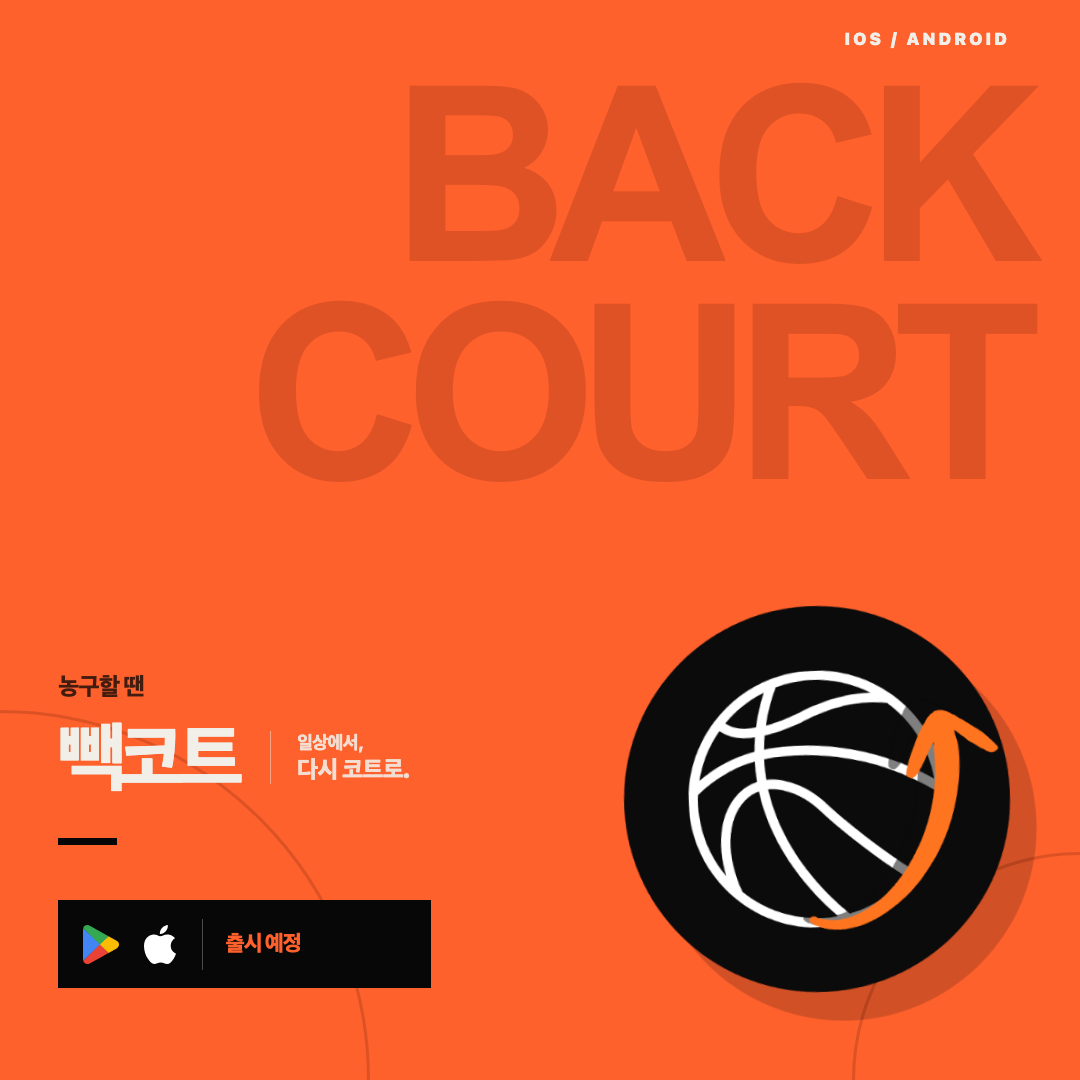
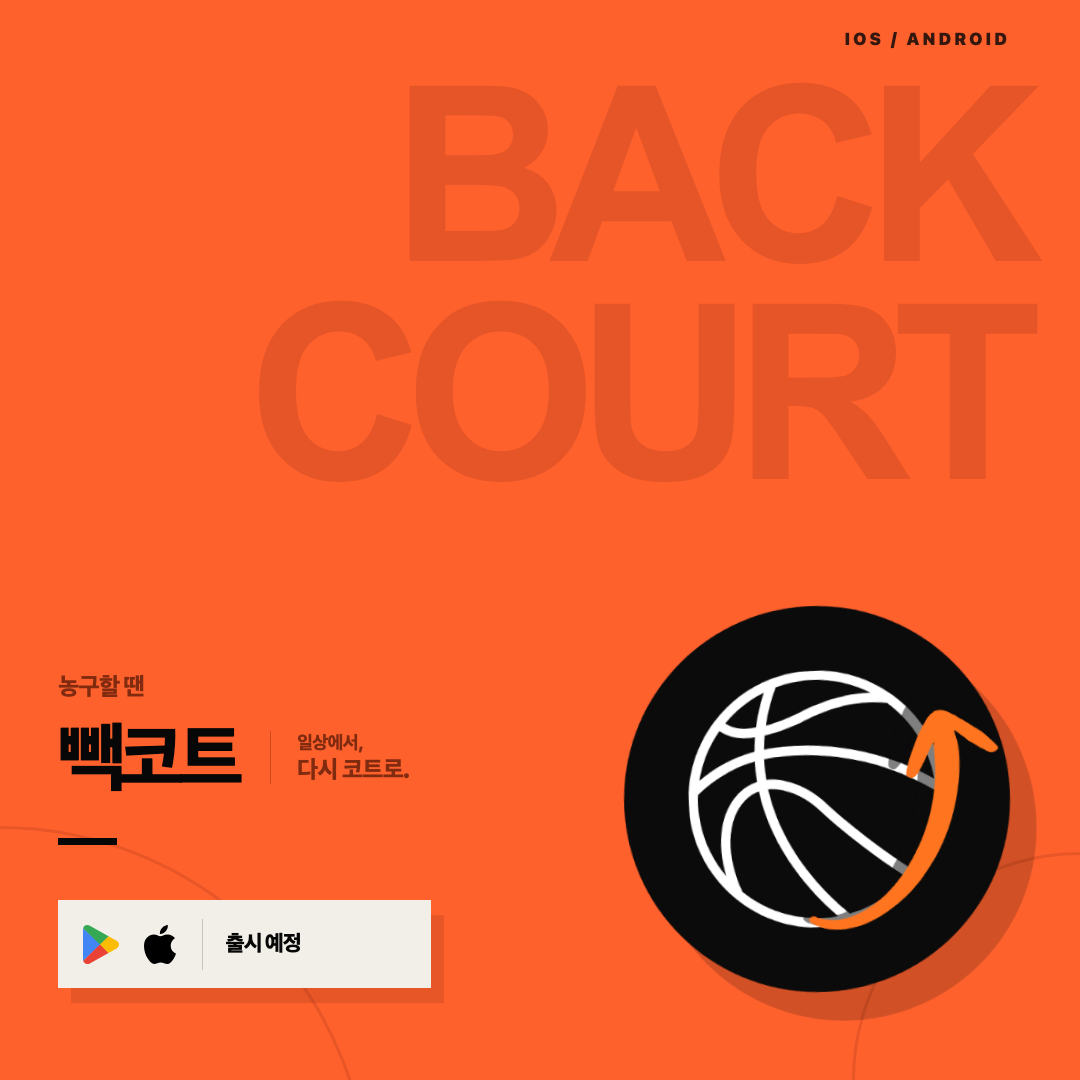
Rebalance promo poster visual hierarchy

diff --git a/Backcourt-Social/styles.css b/Backcourt-Social/styles.css
@@ -23,24 +23,24 @@ a { color: inherit; text-decoration: none; }
 .creative-meta span { color: #8c8c8c; font-size: 12px; font-weight: 800; }
 .poster-shell { width: min(100%,1080px); aspect-ratio: 1; overflow: hidden; container-type: inline-size; background: var(--orange); border: 1px solid #292929; box-shadow: 0 20px 50px rgba(0,0,0,.28); }
 .poster { position: relative; width: 100%; height: 100%; overflow: hidden; color: var(--ink); background: var(--orange); letter-spacing: -.045em; }
-.back-type { position: absolute; z-index: 0; top: 6.3cqw; right: 5.2cqw; width: 100%; color: rgba(117,38,14,.24); font-family: Arial, "Apple SD Gothic Neo", sans-serif; font-size: 22.6cqw; font-weight: 950; line-height: .895; letter-spacing: -.075em; text-align: right; white-space: nowrap; }
+.back-type { position: absolute; z-index: 0; top: 6.3cqw; right: 5.2cqw; width: 100%; color: rgba(117,38,14,.19); font-family: Arial, "Apple SD Gothic Neo", sans-serif; font-size: 22.6cqw; font-weight: 950; line-height: .895; letter-spacing: -.075em; text-align: right; white-space: nowrap; }
 .back-type span { display: block; }
-.platform { position: absolute; z-index: 2; top: 2.7cqw; right: 6.5cqw; color: var(--paper); font-size: 1.58cqw; font-weight: 950; letter-spacing: .18em; }
+.platform { position: absolute; z-index: 2; top: 2.7cqw; right: 6.5cqw; color: rgba(7,7,7,.82); font-size: 1.58cqw; font-weight: 950; letter-spacing: .18em; }
 .copy { position: absolute; z-index: 3; left: 5.4cqw; top: 62.2cqw; }
-.copy .kicker { margin: 0 0 1.5cqw; color: rgba(7,7,7,.76); font-size: 2.25cqw; font-weight: 900; }
+.copy .kicker { margin: 0 0 1.5cqw; color: rgba(117,38,14,.92); font-size: 2.25cqw; font-weight: 900; }
 .title-row { display: flex; align-items: center; gap: 3cqw; }
-.copy h2 { margin: 0; color: var(--paper); font-size: 7.05cqw; line-height: 1; font-weight: 950; letter-spacing: -.08em; }
-.title-slogan { margin: .25cqw 0 0; padding-left: 2.4cqw; color: rgba(241,239,232,.88); border-left: .18cqw solid rgba(241,239,232,.48); font-size: 1.7cqw; line-height: 1.25; font-weight: 800; letter-spacing: -.035em; }
+.copy h2 { margin: 0; color: var(--ink); font-size: 7.05cqw; line-height: 1; font-weight: 950; letter-spacing: -.08em; }
+.title-slogan { margin: .25cqw 0 0; padding-left: 2.4cqw; color: rgba(117,38,14,.92); border-left: .18cqw solid rgba(117,38,14,.38); font-size: 1.7cqw; line-height: 1.25; font-weight: 800; letter-spacing: -.035em; }
 .title-slogan strong { font-size: 2.25cqw; font-weight: 950; }
 .copy > i { width: 5.4cqw; height: .65cqw; margin: 4.1cqw 0 5.1cqw; display: block; background: var(--ink); }
-.launch { width: 34.5cqw; height: 8.15cqw; display: flex; align-items: center; color: var(--orange); background: var(--ink); }
-.store-marks { height: 4.7cqw; padding: 0 2.1cqw; display: flex; align-items: center; gap: 1.8cqw; border-right: .18cqw solid rgba(255,255,255,.28); }
+.launch { width: 34.5cqw; height: 8.15cqw; display: flex; align-items: center; color: var(--ink); background: var(--paper); box-shadow: 1.2cqw 1.4cqw 0 rgba(117,38,14,.18); }
+.store-marks { height: 4.7cqw; padding: 0 2.1cqw; display: flex; align-items: center; gap: 1.8cqw; border-right: .18cqw solid rgba(7,7,7,.18); }
 .store-marks img { width: 3.65cqw; height: 3.65cqw; object-fit: contain; }
-.store-marks .apple-logo { filter: invert(1); }
+.store-marks .apple-logo { filter: none; }
 .launch > strong { margin-left: 2.1cqw; font-size: 2.05cqw; font-weight: 950; letter-spacing: -.055em; white-space: nowrap; }
 .hero-icon { position: absolute; z-index: 2; left: 57.8cqw; top: 56.1cqw; width: 35.75cqw; height: 35.75cqw; object-fit: contain; transform: rotate(-3deg); filter: drop-shadow(2.4cqw 2.8cqw 0 rgba(0,0,0,.18)); }
-.court-lines i, .court-lines b { position: absolute; z-index: 1; display: block; border: .28cqw solid rgba(117,38,14,.25); border-radius: 50%; }
-.court-lines i { left: -34.25cqw; bottom: -34.25cqw; width: 68.5cqw; height: 68.5cqw; }
+.court-lines i, .court-lines b { position: absolute; z-index: 1; display: block; border: .28cqw solid rgba(117,38,14,.17); border-radius: 50%; }
+.court-lines i { left: -34.25cqw; bottom: -45cqw; width: 68.5cqw; height: 68.5cqw; }
 .court-lines b { right: -21.1cqw; bottom: -21.1cqw; width: 42.2cqw; height: 42.2cqw; }
 .download { margin-top: 12px; display: inline-block; color: #c8c8c8; background: #242424; }
 footer { padding: 0 20px 42px; color: #5d5d5d; font-size: 11px; font-weight: 800; letter-spacing: .08em; text-align: center; }

diff --git a/Backcourt-Social/index.html b/Backcourt-Social/index.html
@@ -5,7 +5,7 @@
     <meta name="viewport" content="width=device-width, initial-scale=1.0" />
     <meta name="theme-color" content="#111111" />
     <title>빽코트 홍보 포스터</title>
-    <link rel="stylesheet" href="./styles.css?v=13" />
+    <link rel="stylesheet" href="./styles.css?v=14" />
   </head>
   <body>
     <header class="studio-header">
